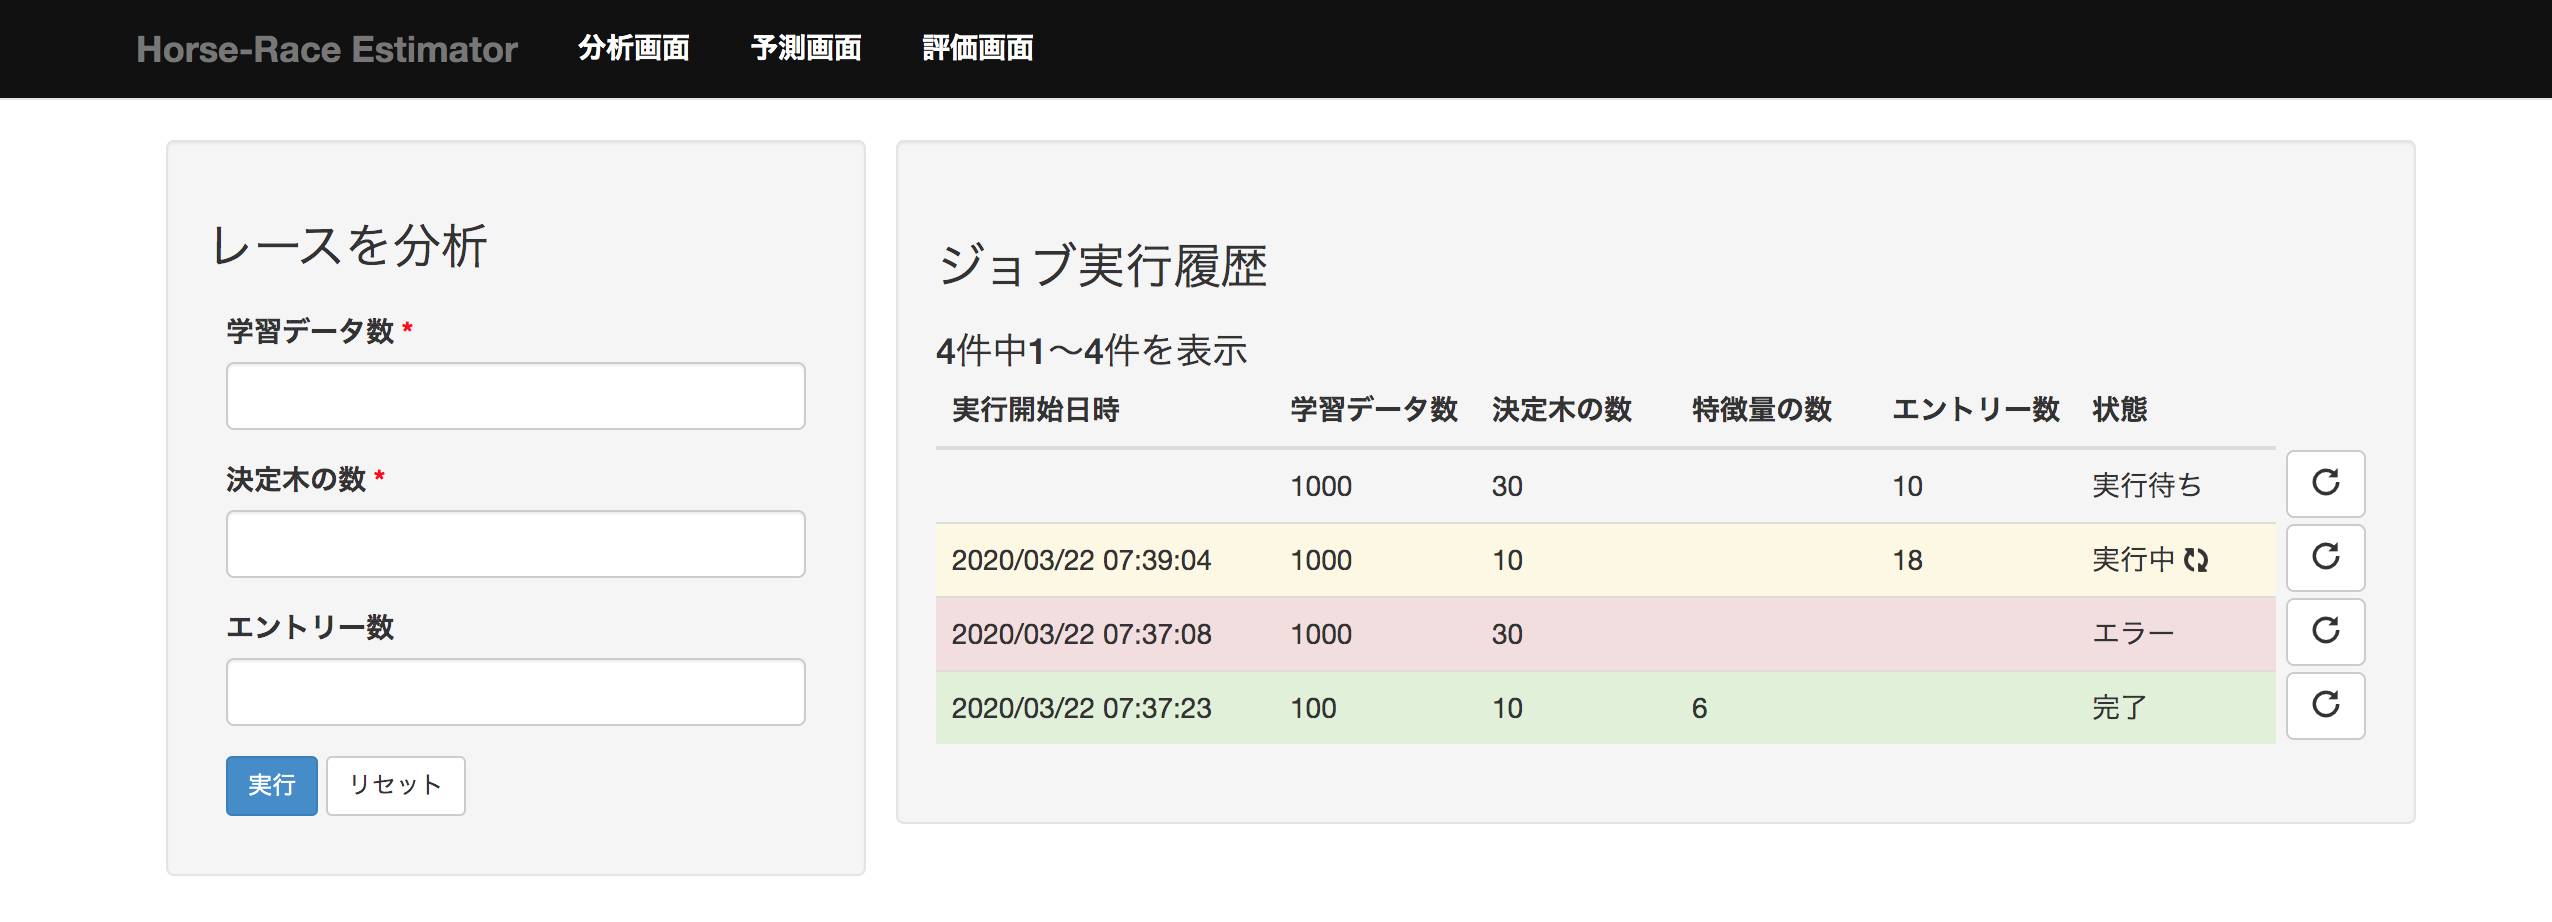
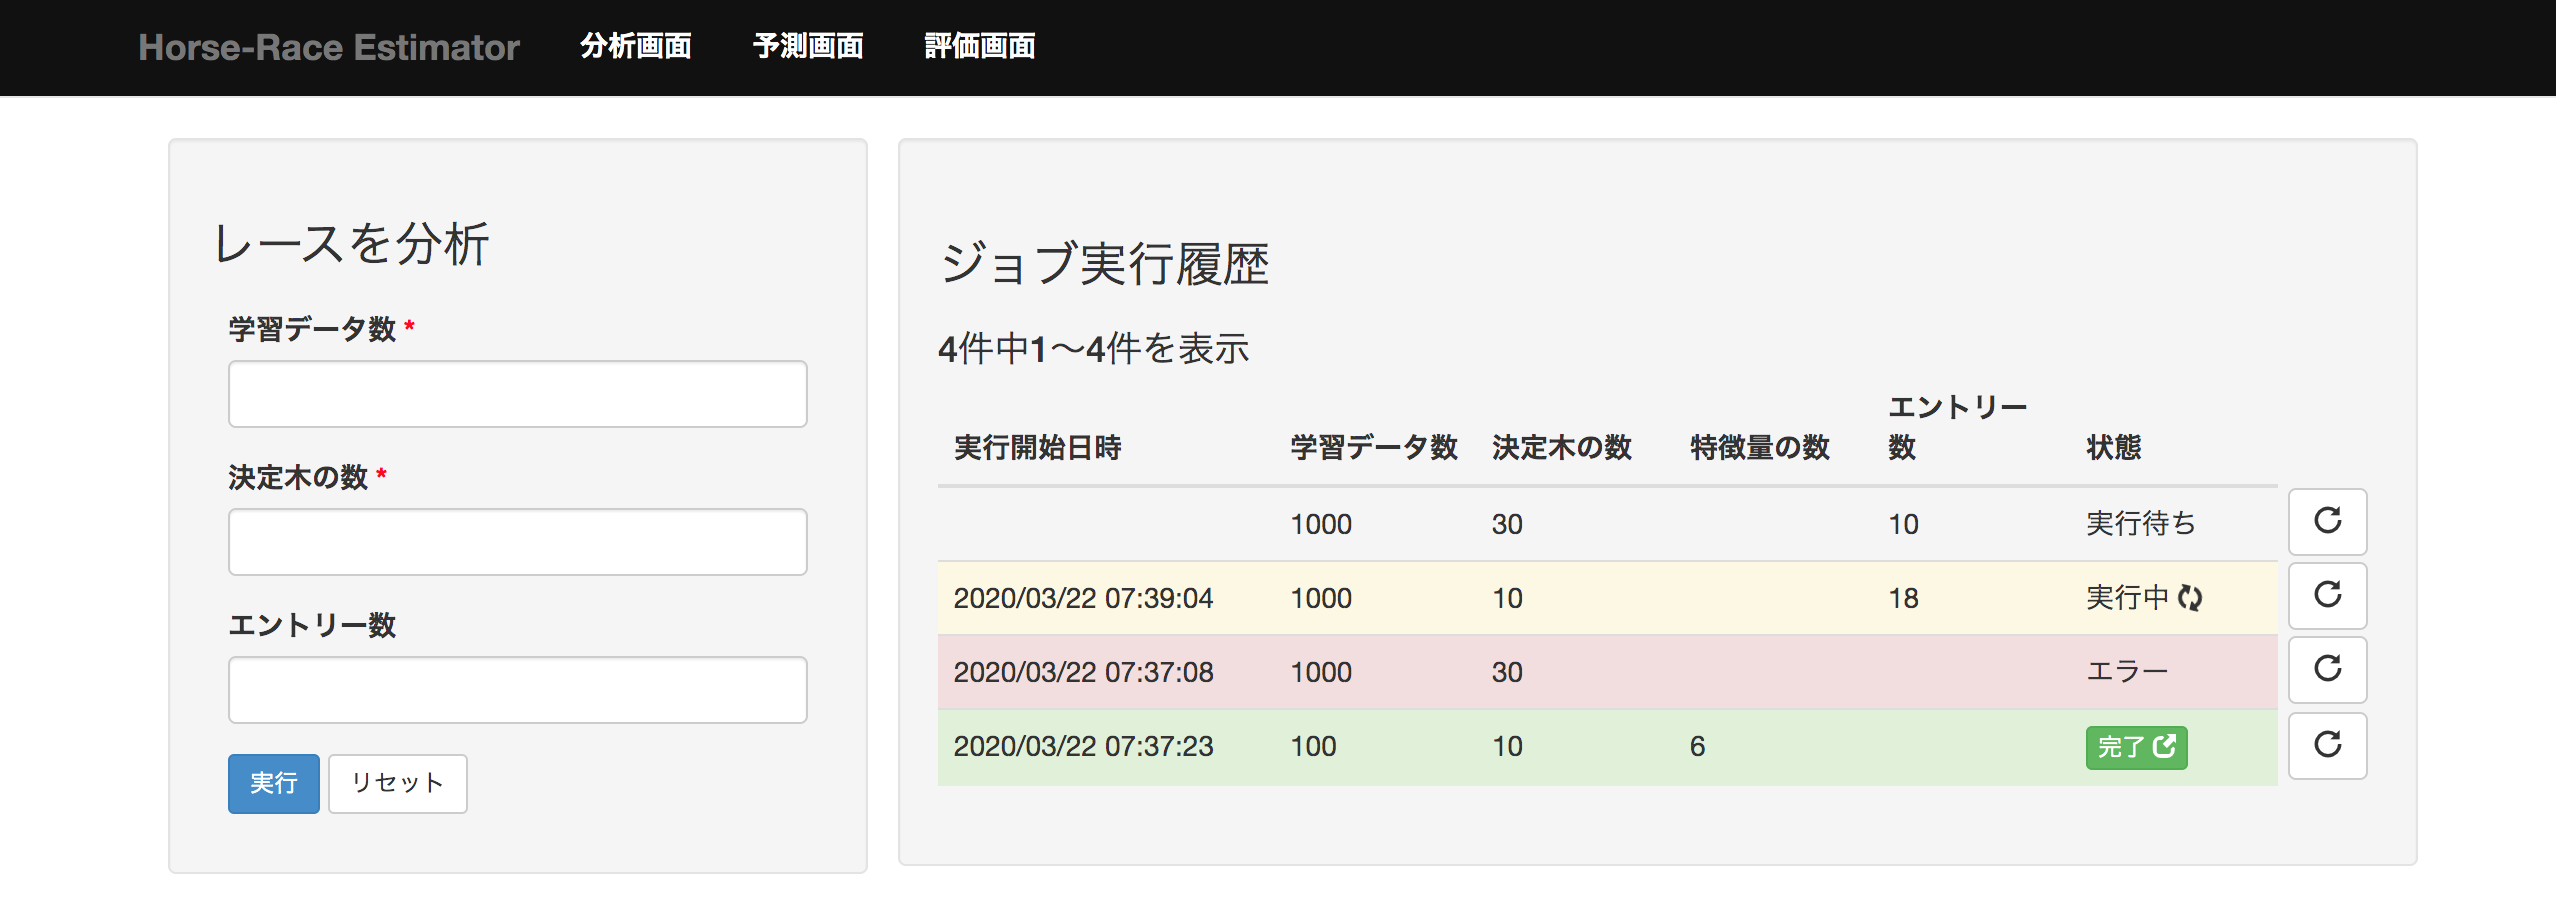
Alterf confirm analyses result (#247)
* add new resources

* add analysis result ui spec

* fix build error

* add new tables

* update class structure

* fix class.uml

* update sequence diagram

* update execution sequence for analysis

* fix table format

* fix table format

* update images

* create api spec

* fix internal spec

* fix schema

* update CHANGELOG.md

diff --git a/horse-race_estimator/alterf/internal.rst b/horse-race_estimator/alterf/internal.rst
@@ -24,6 +24,14 @@ MVCモデルを利用する
 
     - 分析ジョブの情報を管理するクラス
 
+  - Analysis::Result
+
+    - 分析結果情報を管理するクラス
+
+  - Analysis::Result::Importance
+
+    - 重要度を管理するクラス
+
   - Prediction
 
     - 予測ジョブの情報を管理するクラス
@@ -45,6 +53,10 @@ MVCモデルを利用する
   - AnalysisView
 
     - 利用者が分析処理を実行，確認するための画面
+
+  - AnalysisResultView
+
+    - 利用者が分析結果を確認するための画面
 
   - PredictionView
 
@@ -71,6 +83,11 @@ MVCモデルを利用する
   - EvaluationsController
 
     - 評価処理を管理するコントローラー
+
+  - Api::AnalysesController
+
+    - 分析情報を管理するコントローラー
+    - WebAPI用コントローラー
 
 - Library
 
@@ -116,14 +133,22 @@ MVCモデルを利用する
 3. 1ヶ月以上前に作成された一時ファイルを削除する
 4. 必須パラメーターが指定されているかチェックする
 5. 分析ジョブ情報を作成する
-6. 非同期で分析ジョブを実行する
-7. IDから分析ジョブ情報を取得する
-8. 分析スクリプトを実行する
-9. ファイルから分析結果を読み込む
-10. 分析ジョブ情報の素性の数を更新する
-11. 分析ジョブIDをファイルに出力する
-12. 分析結果をメールで通知する
-13. 分析ジョブ情報の状態を官僚にする
+6. 分析結果情報を作成する
+7. 非同期で分析ジョブを実行する
+8. IDから分析ジョブ情報を取得する
+9. 分析スクリプトを実行する
+10. ファイルから分析結果を読み込む
+11. 分析ジョブ情報の素性の数を更新する
+12. 分析結果情報を取得する
+13. 重要度情報を取得する
+
+素性の数だけ14を繰り返す
+
+14. 重要度情報を作成する
+
+15. 分析ジョブIDをファイルに出力する
+16. 分析結果をメールで通知する
+17. 分析ジョブ情報の状態を完了にする
 
 .. _alt-int-seq-show-analyses:
 
@@ -143,6 +168,11 @@ MVCモデルを利用する
 
 5. GET /analyses を実行する
 6. ジョブ一覧を更新する
+
+7. 利用者が結果表示ボタンを押下する
+8. 分析ジョブ情報を取得する
+9. 1ヶ月以上前に作成された一時ファイルを削除する
+10. 分析ジョブIDから分析結果情報を取得する
 
 .. _alt-int-seq-execute-prediction:
 
@@ -320,6 +350,8 @@ MVCモデルを利用する
 ------------
 
 - :ref:`alt-int-sch-analyses`
+- :ref:`alt-int-sch-analysis_results`
+- :ref:`alt-int-sch-analysis_result_importances`
 - :ref:`alt-int-sch-predictions`
 - :ref:`alt-int-sch-prediction_results`
 - :ref:`alt-int-sch-evaluations`
@@ -346,6 +378,40 @@ analysesテーブル
    performed_at,DATETIME,分析ジョブの実行開始日時,
    created_at,DATETIME,分析ジョブ情報の作成日時,○
    updated_at,DATETIME,分析ジョブ情報の更新日時,○
+
+.. _alt-int-sch-analysis_results:
+
+analysis_resultsテーブル
+^^^^^^^^^^^^^^^^^^^^^^^^
+
+分析結果情報を登録するanalysis_resultsテーブルを定義する
+
+.. csv-table::
+   :header: カラム,型,内容,NOT NULL
+   :widths: 15,10,30,15
+
+   id,INTEGER,内部ID,○
+   analysis_id,INTEGER,analysesテーブルの内部ID,○
+   created_at,DATETIME,分析結果情報の作成日時,○
+   updated_at,DATETIME,分析結果情報の更新日時,○
+
+.. _alt-int-sch-analysis_result_importances:
+
+analysis_result_importancesテーブル
+^^^^^^^^^^^^^^^^^^^^^^^^^^^^^^^^^^^
+
+重要度を登録するanalysis_result_importancesテーブルを定義する
+
+.. csv-table::
+   :header: カラム,型,内容,NOT NULL
+   :widths: 15,10,30,15
+
+   id,INTEGER,内部ID,○
+   analysis_result_id,INTEGER,analysis_resultsテーブルの内部ID,○
+   feature_name,STRING,素性名,○
+   value,FLOAT,重要度の値,○
+   created_at,DATETIME,重要度情報の作成日時,○
+   updated_at,DATETIME,重要度情報の更新日時,○
 
 .. _alt-int-sch-predictions:
 

diff --git a/horse-race_estimator/alterf/external.rst b/horse-race_estimator/alterf/external.rst
@@ -5,6 +5,7 @@
 
 - :ref:`alt-ext-resource`
 - :ref:`alt-ext-ui`
+- :ref:`alt-ext-api`
 
 .. _alt-ext-resource:
 
@@ -14,6 +15,8 @@
 本システムでは以下のリソースを扱う
 
 - :ref:`alt-ext-res-analysis`
+- :ref:`alt-ext-res-ana-result`
+- :ref:`alt-ext-res-ana-res-importance`
 - :ref:`alt-ext-res-prediction`
 - :ref:`alt-ext-res-evaluation`
 - :ref:`alt-ext-res-eva-data`
@@ -48,6 +51,34 @@
      - 実行中
      - 完了
      - エラー"
+   結果, :ref:`alt-ext-res-ana-result`, :ref:`alt-ext-res-ana-result` 参照,
+
+.. _alt-ext-res-ana-result:
+
+分析結果
+^^^^^^^^
+
+レースの分析結果を表す
+
+.. csv-table::
+   :header: 属性名,型,意味,備考
+   :widths: 20,10,30,40
+
+   重要度,array[ :ref:`alt-ext-res-ana-res-importance` ],各素性の重要度の配列
+
+.. _alt-ext-res-ana-res-importance:
+
+重要度
+^^^^^^
+
+素性の重要度を表す
+
+.. csv-table::
+   :header: 属性名,型,意味,備考
+   :widths: 20,10,30,40
+
+   素性名,string,素性の名前, :ref:`den-int-sch-features` 参照
+   重要度,float,重要度の値,0より大きい実数
 
 .. _alt-ext-res-prediction:
 
@@ -152,6 +183,9 @@
 利用者はブラウザからレースの分析，予測，評価を行う
 
 - レースの分析は :ref:`alt-ext-ui-analysis` で行う
+
+  - 分析結果の詳細は :ref:`alt-ext-ui-ana-result` で行う
+
 - レースの予測は :ref:`alt-ext-ui-prediction` で行う
 - モデルの評価は :ref:`alt-ext-ui-evaluation` で行う
 
@@ -211,6 +245,22 @@
   - 実行中の場合は「状態」列にアイコンが表示される
   - エントリー数を指定したジョブには「エントリー数」列に値が表示される
   - ジョブ情報の右側のボタンを押下すると，そのジョブと同じパラメーターで分析を実行する
+  - 完了したジョブは状態列に :ref:`alt-ext-ui-ana-result` を表示するためのボタンが表示される
+
+    - :ref:`alt-ext-ui-ana-result` は別タブに表示される
+
+.. _alt-ext-ui-ana-result:
+
+分析結果画面
+^^^^^^^^^^^^
+
+.. image:: images/analysis_result.png
+   :alt: 分析結果画面
+
+- 重要度を表した棒グラフが表示される
+
+  - 上から下へ重要度がソートされる
+  - 棒にマウスオーバーすると値が表示される
 
 .. _alt-ext-ui-prediction:
 
@@ -326,3 +376,47 @@
     - 予測結果の内，正解と同じ馬番は緑，それ以外は灰色で表示される
 
   - 予測が完了していない評価データの行は黄色で表示される
+
+.. _alt-ext-api:
+
+Web API
+-------
+
+以下のAPIを定義する
+
+.. toctree::
+   :maxdepth: 1
+
+   external/api/analysis
+
+共通仕様
+^^^^^^^^
+
+.. _alt-ext-api-common-error:
+
+リクエスト
+""""""""""
+
+- WebAPI のパスには全て先頭に ``/alterf/api`` を付与すること
+
+  - 本API仕様書に記載されているパスは全て上記のパス以下を記載する
+
+  - 例：分析情報を取得する場合
+
+    .. sourcecode:: http
+
+       GET /alterf/api/analyses/15f61ba31273e7c342dd0934f894f0a0 HTTP/1.1
+
+エラーコード
+""""""""""""
+
+404(NotFound)
+'''''''''''''
+
+- レスポンスボディは返さない
+
+**レスポンス例**
+
+.. sourcecode:: http
+
+   HTTP/1.1 404 NotFound

diff --git a/horse-race_estimator/alterf/external/api/analysis.rst b/horse-race_estimator/alterf/external/api/analysis.rst
@@ -1,0 +1,58 @@
+分析情報管理API
+===============
+
+本APIでは以下の機能を提供する
+
+- :ref:`alt-ext-api-ana-show`
+
+.. _alt-ext-api-ana-show:
+
+分析情報を取得する
+^^^^^^^^^^^^^^^^^^
+
+.. http:get:: /analyses/[analysis_id]
+
+   - レスポンスボディ
+
+     - :ref:`alt-ext-res-analysis`
+
+   - ステータスコード
+
+     - 成功時
+
+       - 200
+
+     - 失敗時
+
+       - 404
+
+   **リクエスト例**
+
+   .. sourcecode:: http
+
+      GET /analyses/15f61ba31273e7c342dd0934f894f0a0 HTTP/1.1
+
+   **レスポンス例**
+
+   .. sourcecode:: http
+
+      HTTP/1.1 200 OK
+      Content-Type: application/json
+
+      {
+        "analysis_id": "15f61ba31273e7c342dd0934f894f0a0",
+        "performed_at": "2020-07-24T11:41:04.000Z",
+        "num_data": 100,
+        "num_tree": 10,
+        "num_feature": 27,
+        "num_entry": null,
+        "state": "completed",
+        "result": {
+          "importances": [
+            {
+              "feature_name": "win_times",
+              "value": 0.233369
+            }
+          ]
+        }
+      }

diff --git a/CHANGELOG.md b/CHANGELOG.md
@@ -1,3 +1,6 @@
+# 2020/07/24
+- [Alterf] update version to 4.14.0
+
 # 2020/07/16
 - [Algieba] update version to 4.7.0
 
